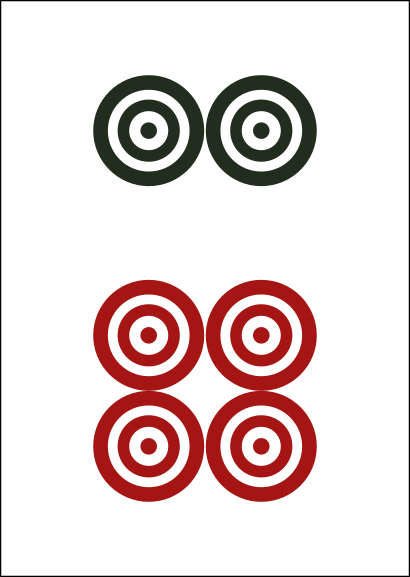
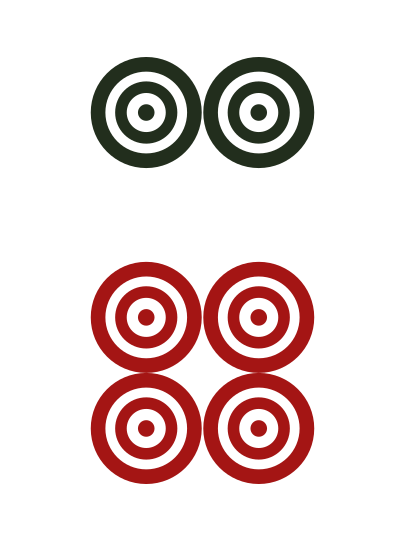
Update tile images to transparent/no-border background images

diff --git a/src/containers/TileContent.js b/src/containers/TileContent.js
@@ -8,7 +8,7 @@ const TileContent = ({ suit, type, selected, className }) => {
 
 		try {
 			// TODO: maybe we should just rename the images as the full suit+type name
-			img = require(`../images/tiles/${suit.slice(0, 4)}_${type}.png`)
+			img = require(`../images/tiles/${suit}_${type}.png`)
 		} catch (e) {
 			// handle silently
 		}
